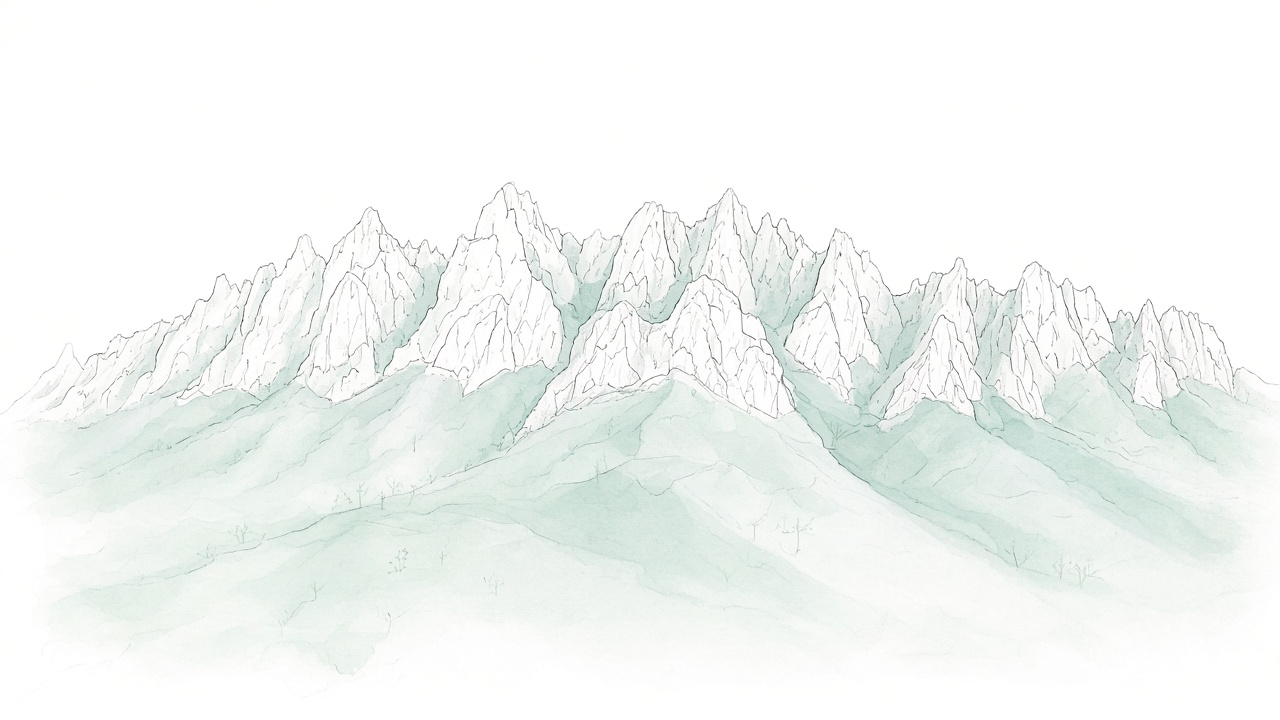
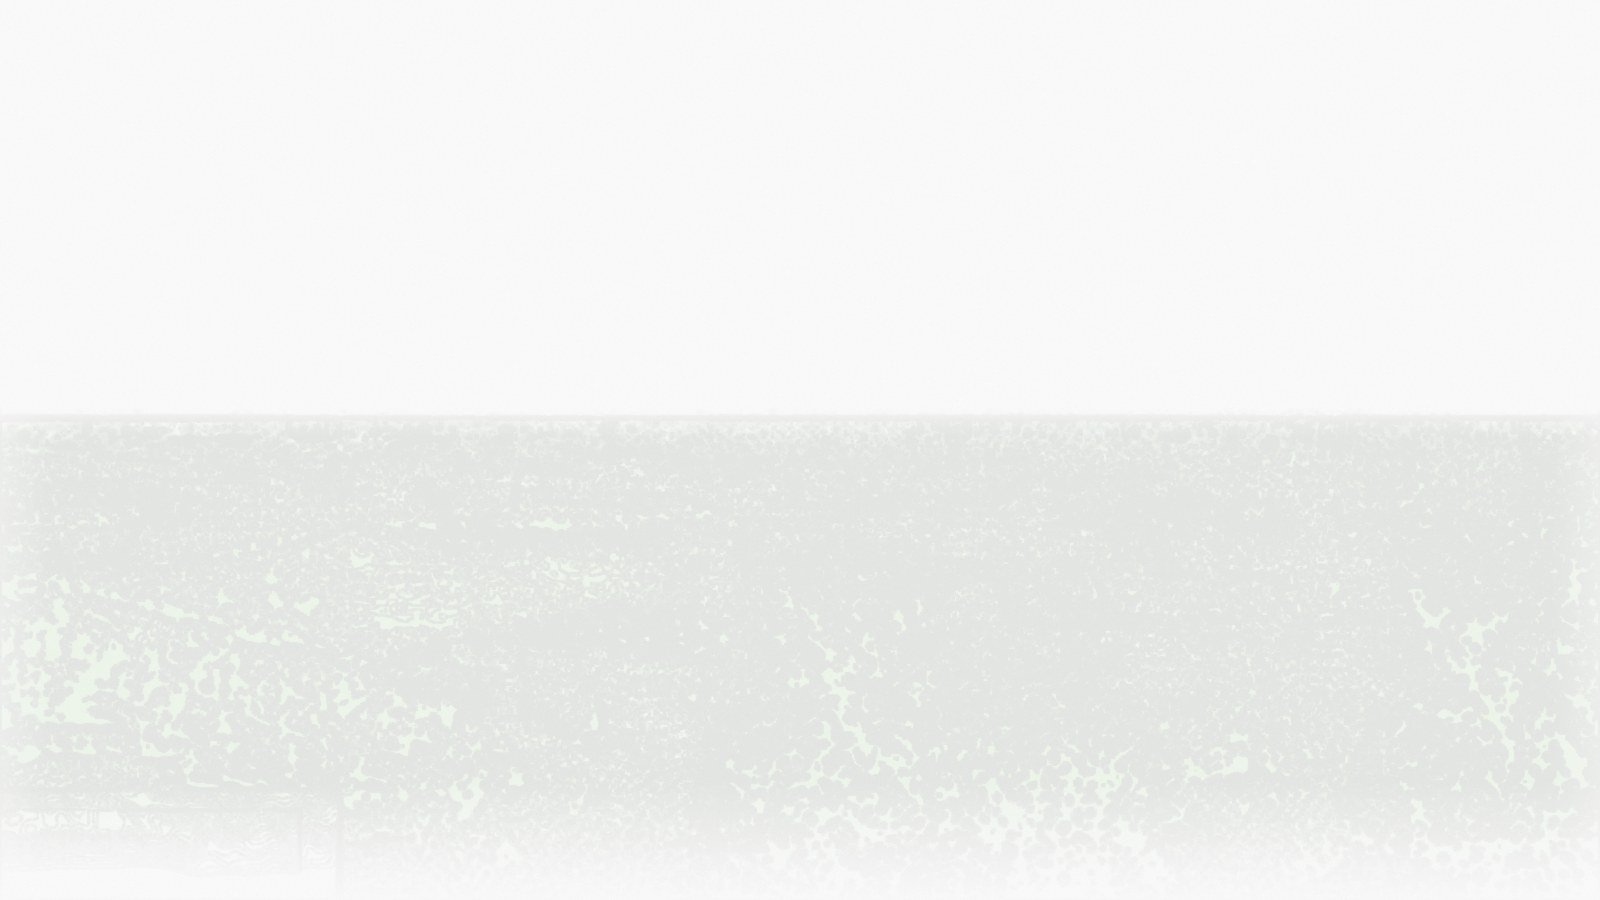
feat(zagros): photo-to-koh hero + Tak mist layers for Save Zagros page
Rebuild campaign hero from Dena reference photos with Pillow (desaturate,
lift blacks to ~#E5, mint wash, sky vignette). Add drifting mist PNGs like
Tak Macaron. Leave /abadis/ product page unchanged.

diff --git a/zagros/index.html b/zagros/index.html
@@ -10,6 +10,7 @@
   <meta property="og:title" content="پویش نجات زاگرس · آبادیس" />
   <meta property="og:description" content="کاشت نهال بلوط در ارتفاعات زاگرس؛ مسئولیت اجتماعی آبادیس." />
   <meta property="og:type" content="website" />
+  <meta property="og:locale" content="fa_IR" />
   <meta property="og:image" content="https://siaamak-ghodsi.github.io/abadis-scroll-scrub-demo/zagros/img/zagros-hero.jpg" />
   <link rel="icon" href="./favicon.ico" sizes="any" />
   <link rel="icon" type="image/png" sizes="32x32" href="./img/favicon-32.png" />
@@ -33,7 +34,7 @@
       --mint: #e8f3f3;
       --ink: #0a2e32;
       --muted: #5a7578;
-      --bg: #f4f8f8;
+      --bg: #f9f9f9;
       --font: "Kalameh", Tahoma, system-ui, sans-serif;
     }
     * { box-sizing: border-box; margin: 0; padding: 0; }
@@ -47,7 +48,6 @@
     a { color: var(--teal); }
     img { max-width: 100%; display: block; }
 
-    /* ---- header ---- */
     .header {
       position: fixed; top: 0; left: 0; right: 0; z-index: 100;
       display: flex; align-items: center; justify-content: space-between;
@@ -82,39 +82,72 @@
     }
     .header.scrolled .header-cta { background: #2ec4c6; color: #0b2e32 !important; }
 
-    /* ---- hero ---- */
+    /* ---- hero (Tak Macaron layering) ---- */
     .hero {
       position: relative;
       min-height: min(92vh, 920px);
       display: flex;
       align-items: flex-start;
       justify-content: center;
-      padding: 110px 24px 72px;
+      padding: 110px 24px 88px;
       overflow: hidden;
-      background: var(--mint);
+      background: #f9f9f9;
     }
     .hero-art {
       position: absolute;
       inset: 0;
       z-index: 0;
       pointer-events: none;
+      overflow: hidden;
     }
-    .hero-art img {
-      width: 100%;
-      height: 100%;
+    .hero-koh {
+      position: absolute;
+      left: 50%;
+      bottom: -2%;
+      width: 118%;
+      max-width: none;
+      height: auto;
+      transform: translateX(-50%);
       object-fit: cover;
-      object-position: center 58%;
-      transform: scale(1.02);
-      animation: heroDrift 28s ease-in-out infinite alternate;
+      object-position: center bottom;
+      opacity: 0.98;
     }
-    @keyframes heroDrift {
-      from { transform: scale(1.02) translateY(0); }
-      to   { transform: scale(1.06) translateY(-1.2%); }
+    .mist {
+      position: absolute;
+      bottom: 18%;
+      width: min(42vw, 520px);
+      height: auto;
+      opacity: 0.55;
+      will-change: transform;
+      filter: saturate(0.85);
+    }
+    .mist-a {
+      left: -8%;
+      animation: mistDriftA 35s ease-in-out infinite alternate;
+    }
+    .mist-b {
+      right: -10%;
+      width: min(48vw, 620px);
+      bottom: 22%;
+      opacity: 0.48;
+      animation: mistDriftB 35s ease-in-out infinite alternate;
+    }
+    @keyframes mistDriftA {
+      from { transform: translate3d(0, 0, 0); }
+      to   { transform: translate3d(42vw, -1.5vh, 0); }
+    }
+    @keyframes mistDriftB {
+      from { transform: translate3d(0, 0, 0); }
+      to   { transform: translate3d(-46vw, 1.2vh, 0); }
     }
     .hero-veil {
       position: absolute; inset: 0; z-index: 1;
       background:
-        linear-gradient(180deg, rgba(248,252,252,0.72) 0%, rgba(248,252,252,0.28) 38%, rgba(248,252,252,0.05) 58%, rgba(11,46,50,0.18) 100%);
+        linear-gradient(180deg,
+          rgba(249,249,249,0.55) 0%,
+          rgba(249,249,249,0.12) 34%,
+          rgba(249,249,249,0.0) 55%,
+          rgba(249,249,249,0.35) 100%);
       pointer-events: none;
     }
     .hero-inner {
@@ -173,7 +206,6 @@
     }
     .btn-ghost:hover { background: #fff; }
 
-    /* ---- stats ---- */
     .stats {
       margin-top: -42px;
       position: relative; z-index: 3;
@@ -212,7 +244,6 @@
       font-weight: 600;
     }
 
-    /* ---- sections ---- */
     .section {
       width: min(920px, 100%);
       margin: 0 auto;
@@ -355,14 +386,15 @@
       .nav { gap: 10px; }
       .nav a:not(.header-cta) { display: none; }
       .hero { min-height: 78vh; padding-top: 96px; }
-      .hero-art img { object-position: center 62%; }
+      .hero-koh { width: 145%; bottom: 0; }
+      .mist { bottom: 14%; opacity: 0.42; }
       .stats-grid { grid-template-columns: 1fr; }
       .card-row { grid-template-columns: 1fr; }
       .tl-item { grid-template-columns: 1fr; gap: 4px; }
       .foot-inner { grid-template-columns: 1fr; }
     }
     @media (prefers-reduced-motion: reduce) {
-      .hero-art img { animation: none; }
+      .mist-a, .mist-b { animation: none; }
       html { scroll-behavior: auto; }
     }
   </style>
@@ -383,7 +415,9 @@
 
   <section class="hero" aria-label="هیرو پویش نجات زاگرس">
     <div class="hero-art" aria-hidden="true">
-      <img src="./img/zagros-hero.jpg" alt="" width="1600" height="900" decoding="async" fetchpriority="high" />
+      <img class="hero-koh" src="./img/zagros-hero.jpg" alt="" width="1440" height="810" decoding="async" fetchpriority="high" />
+      <img class="mist mist-a" src="./img/mist-c1.png" alt="" width="335" height="105" decoding="async" />
+      <img class="mist mist-b" src="./img/mist-c2.png" alt="" width="471" height="128" decoding="async" />
     </div>
     <div class="hero-veil" aria-hidden="true"></div>
     <div class="hero-inner">
@@ -425,7 +459,8 @@
       آبادیس در مسیر مسئولیت اجتماعی خود، با همکاری شرکت ایدهپردازان نواندیش فردا (Dpaper)، بهازای اعضای خانوادهٔ خود که بیش از ۴۰۰ مرکز درمانی است، کاشت بلوط را در روز درختکاری آغاز کرد و تا اردیبهشت ۱۴۰۳ این تعداد را به ۱٬۰۰۰ نهال رساند تا در ارتفاعات زاگرس مکانی به نام «آبادیس» و به یاد صنعت سلامت کشور ثبت شود.
     </p>
     <p class="note">
-      منبع: صفحهٔ رسمی «نجات زاگرس، مسئولیت اجتماعی آبادیس» در abadis-med.com
+      منبع: صفحهٔ رسمی «نجات زاگرس، مسئولیت اجتماعی آبادیس» در
+      <a href="https://abadis-med.com/%D9%86%D8%AC%D8%A7%D8%AA-%D8%B2%D8%A7%DA%AF%D8%B1%D8%B3%D8%8C%D9%85%D8%B3%D8%A6%D9%88%D9%84%DB%8C%D8%AA-%D8%A7%D8%AC%D8%AA%D9%85%D8%A7%D8%B9%DB%8C-%D8%A2%D8%A8%D8%A7%D8%AF%DB%8C%D8%B3/" target="_blank" rel="noopener">abadis-med.com</a>
     </p>
 
     <div class="card-row">
